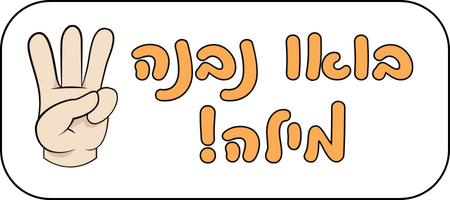
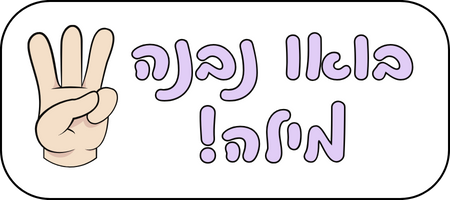
updated images + sizes for UI + names

Changed region(s): [[0.4356, 0.51, 0.7778, 0.81], [0.28, 0.18, 0.5911, 0.51], [0.6222, 0.15, 0.9333, 0.42]]

diff --git a/UI/learn_a_letter.py b/UI/learn_a_letter.py
@@ -41,27 +41,30 @@ class TopFrame(tk.Frame):
         self.create_widgets()
 
     def create_widgets(self):
-        self.name_label = tk.Label(self, image=self.what_your_name, font=("Calibri", 20), bg=self.config["BG_COLOR"])
-        self.name_label.pack(side="top", padx=10)
-
         self.empty_frame1 = tk.Label(self, width=int(self.winfo_width() / 10),
                                     bg=self.config["BG_COLOR"])
-        self.empty_frame1.pack(side='left', expand=True)
+        self.empty_frame1.pack(side='right', expand=True)
 
-        self.submit_button = tk.Button(self, image=self.config["submit_img"], bg=self.config["BG_COLOR"], borderwidth=0,
-                                       command=self.submit_name,
-                                       highlightbackground=self.config["BG_COLOR"], highlightcolor=self.config["BG_COLOR"],
-                                       highlightthickness=0, activebackground=self.config["BG_COLOR"])
-        self.submit_button.pack(side="left", padx=10)
+        self.name_label = tk.Label(self, image=self.what_your_name, font=("Calibri", 20), bg=self.config["BG_COLOR"])
+        self.name_label.pack(side="right", padx=10)
 
-
-        self.entry = tk.Entry(self, font=("Calibri", 20), justify="right", width=15)
-        self.entry.pack(side="left", padx=10)
-
+        self.empty_frame2 = tk.Label(self, width=int(self.winfo_width() / 10),
+                                    bg=self.config["BG_COLOR"])
+        self.empty_frame2.pack(side='left', expand=True)
 
         self.empty_frame3 = tk.Label(self, width=int(self.winfo_width() / 10),
                                     bg=self.config["BG_COLOR"])
         self.empty_frame3.pack(side='left', expand=True)
+
+        self.submit_button = tk.Button(self, image=self.config["submit_img"], bg=self.config["BG_COLOR"], borderwidth=0,
+                                       command=self.submit_name, highlightbackground=self.config["BG_COLOR"], highlightcolor=self.config["BG_COLOR"],
+                                       highlightthickness=0, activebackground=self.config["BG_COLOR"], cursor="hand2")
+        self.submit_button.pack(side="left", padx=10)
+
+
+        self.entry = tk.Entry(self, font=("Calibri", 20), justify="center", width=10)
+        self.entry.pack(side="left", padx=10)
+
 
 
     def submit_name(self):
@@ -92,7 +95,7 @@ class MiddleFrame(tk.Frame):
 
 class MiddleRightFrame(tk.Frame):
     def __init__(self, parent, config):
-        super().__init__(parent, bg=config["BG_COLOR"]) 
+        super().__init__(parent, bg=config["BG_COLOR"])
         self.config = config
         self.parent = parent
         self.pack(side='right')
@@ -101,7 +104,7 @@ class MiddleRightFrame(tk.Frame):
     def create_widgets(self):
         self.empty_frame1 = tk.Label(self, height=int(self.winfo_height() / 2),
                                     bg=self.config["BG_COLOR"])
-        self.empty_frame1.pack(side='top', expand=True)
+        self.empty_frame1.pack(side='bottom', expand=True)
 
         self.empty_frame2 = tk.Label(self, width=int(self.winfo_width() / 10),
                                     bg=self.config["BG_COLOR"])
@@ -128,13 +131,16 @@ class MiddleRightFrame(tk.Frame):
 # Middle Left Frame
 class MiddleLeftFrame(tk.Frame):
     def __init__(self, parent, config):
-        super().__init__(parent, bg=config["BG_COLOR"]) 
+        super().__init__(parent, bg=config["BG_COLOR"])
         self.config = config
         self.letter = None
         self.pack(side='left', expand=True, fill='both')
         self.empty = ImageTk.PhotoImage(Image.open("letters/empty.png").resize((300, 300), Image.LANCZOS))
         self.letter_label = tk.Label(self,image=self.empty, bg=self.config["BG_COLOR"])
-        self.letter_label.pack(side="right")
+        self.letter_label.pack(side="top")
+        self.learn_a_letter_boy = ImageTk.PhotoImage(Image.open("new_assets/learn_a_letter_boy.png").resize((360, 250), Image.LANCZOS))
+        self.letter_boy_label = tk.Label(self, image=self.learn_a_letter_boy, bg=self.config["BG_COLOR"])
+        self.letter_boy_label.pack(side="bottom")
 
     def display_name(self, letter):
         self.letter = letter
@@ -170,6 +176,6 @@ class BottomFrame(tk.Frame):
         self.back_button = tk.Button(self, image=self.config["back_img"], bg=self.config["BG_COLOR"], borderwidth=0,
                                      command=self.return_to_homepage,
                                      highlightbackground=self.config["BG_COLOR"], highlightcolor=self.config["BG_COLOR"],
-                                     highlightthickness=1, activebackground=self.config["BG_COLOR"])
+                                     highlightthickness=1, activebackground=self.config["BG_COLOR"], cursor="hand2")
         self.back_button.pack(side="right", padx=10)
 

diff --git a/UI/identify_page.py b/UI/identify_page.py
@@ -64,28 +64,28 @@ class MiddleRightIdentifyFrame(tk.Frame):
 
     def create_widgets(self):
         # prediction frame
-        self.prediction_frame = tk.Frame(self, bg=self.config["BG_COLOR"], padx=10, pady=5)
-        self.prediction_frame.pack(side="top", pady=0, padx=20, fill='x') 
+        self.middle_top_frame = tk.Frame(self, bg=self.config["BG_COLOR"])
+        self.middle_top_frame.pack(side="top",expand=True, fill='both') 
 
-        self.empty_frame1 = tk.Label(self.prediction_frame, width=int(self.prediction_frame.winfo_width() / 10),
+        self.empty_frame1 = tk.Label(self.middle_top_frame, width=int(self.winfo_width() / 10),
                                     bg=self.config["BG_COLOR"])
         self.empty_frame1.pack(side='left', expand=True, fill='x')
 
         # prediction label
-        self.prediction_label = tk.Label(self.prediction_frame, text="", bg=self.config["BG_COLOR"],
-                                         font=("Calibre", 80, 'bold')) 
+        self.prediction_label = tk.Label(self.middle_top_frame, text="", bg=self.config["BG_COLOR"],
+                                         font=("Guttman Yad-Brush", 80, 'bold')) 
         self.prediction_label.pack(side="left", pady=0)
 
-        self.empty_frame2 = tk.Label(self.prediction_frame, width=int(self.prediction_frame.winfo_width() / 10),
+        self.empty_frame2 = tk.Label(self.middle_top_frame, width=int(self.winfo_width() / 10),
                                     bg=self.config["BG_COLOR"])
         self.empty_frame2.pack(side='left', expand=True, fill='x')
 
         # prediction header
-        self.prediction_label_header = tk.Label(self.prediction_frame, image=self.config["meet_the_letter"],
+        self.prediction_label_header = tk.Label(self.middle_top_frame, image=self.config["meet_the_letter"],
                                                 bg=self.config["BG_COLOR"]) 
-        self.prediction_label_header.pack(side='left', pady=3, padx=15)
+        self.prediction_label_header.pack(side='left', pady=0, padx=2)
 
-        self.empty_frame3 = tk.Label(self.prediction_frame, width=int(self.prediction_frame.winfo_width() / 10),
+        self.empty_frame3 = tk.Label(self.middle_top_frame, width=int(self.winfo_width() / 10),
                                     bg=self.config["BG_COLOR"])
         self.empty_frame3.pack(side='left', expand=True, fill='x')
 
@@ -103,7 +103,7 @@ class BottomIdentifyFrame(tk.Frame):
         super().__init__(parent, bg=config["BG_COLOR"])
         self.parent = parent
         self.config = config
-        self.pack(side='top', fill='x')
+        self.pack(side='top', fill='both', expand=True)
         self.create_widgets()
 
     def back_to_homepage(self):
@@ -112,5 +112,5 @@ class BottomIdentifyFrame(tk.Frame):
 
     def create_widgets(self):
         back_button = tk.Button(self, image=self.config["back_img"], bg=self.config["BG_COLOR"],
-                                borderwidth=0, command=self.back_to_homepage, activebackground=self.config["BG_COLOR"])
+                                borderwidth=0, command=self.back_to_homepage, activebackground=self.config["BG_COLOR"], cursor="hand2")
         back_button.pack(side='right', padx=30, pady=10)

diff --git a/UI/home_page.py b/UI/home_page.py
@@ -115,13 +115,13 @@ class LeftHomeFrame(tk.Frame):
                                     bg=self.config["BG_COLOR"])
         self.empty_frame1.pack(side='top', expand=True)
         left_button = tk.Button(self, image=self.config["identify_img"], bg=self.config["BG_COLOR"],
-                                 borderwidth=0, command=self.show_identify_page,  activebackground=self.config["BG_COLOR"])
+                                 borderwidth=0, command=self.show_identify_page,  activebackground=self.config["BG_COLOR"], cursor="hand2")
         left_button.pack(side='top')
         self.empty_frame2 = tk.Label(self, image=self.config["spacer"],
                                     bg=self.config["BG_COLOR"])
         self.empty_frame2.pack(side='top', expand=True)
         left_bottom_button = tk.Button(self, image=self.config["word_identify_img"], bg=self.config["BG_COLOR"],
-                                        borderwidth=0, command=self.show_word_identify_page, activebackground=self.config["BG_COLOR"])
+                                        borderwidth=0, command=self.show_word_identify_page, activebackground=self.config["BG_COLOR"], cursor="hand2")
         left_bottom_button.pack(pady=10, side='bottom')
         
 
@@ -158,7 +158,7 @@ class RightHomeFrame(tk.Frame):
 
     def show_signaword(self):
         self.sign_a_word_config =  {
-            "BG_COLOR": "#fbac57",
+            "BG_COLOR": "#eed4ff",
             "back_img": self.back_img,
             "boy_img": self.identify_boy_img,
             "homePage_show": self.config["homePage_show"]
@@ -172,12 +172,12 @@ class RightHomeFrame(tk.Frame):
                                     bg=self.config["BG_COLOR"])
         self.empty_frame1.pack(side='top', expand=True)
         right_top_button = tk.Button(self, image=self.config["name_break_down_img"], bg=self.config["BG_COLOR"],
-                                borderwidth=0, command=self.show_namebreakdown, activebackground=self.config["BG_COLOR"])
+                                borderwidth=0, command=self.show_namebreakdown, activebackground=self.config["BG_COLOR"], cursor="hand2")
         right_top_button.pack(side="top")
         self.empty_frame2 = tk.Label(self, image=self.config["spacer"],
                                     bg=self.config["BG_COLOR"])
         self.empty_frame2.pack(side='top', expand=True)
         right_bottom_button = tk.Button(self, image=self.config["sign_a_word_img"], bg=self.config["BG_COLOR"],
-                                borderwidth=0,  command=self.show_signaword, activebackground=self.config["BG_COLOR"])
+                                borderwidth=0,  command=self.show_signaword, activebackground=self.config["BG_COLOR"], cursor="hand2")
         right_bottom_button.pack(pady=10, side='bottom')
 

diff --git a/app.py b/app.py
@@ -30,7 +30,7 @@ class App:
         self.logger.info('starting UI init...')
         self.root.title("SignMyName")
         self.root.configure(bg='black')
-        self.root.minsize(1200, 720)
+        self.root.minsize(1200, 750)
         self.root.iconbitmap("assets/icon.ico")
         self.load_images()
         self.create_home_page()
@@ -45,7 +45,7 @@ class App:
             "logo_img": ImageTk.PhotoImage(Image.open("new_assets/logo.png").resize((211, 85), Image.LANCZOS)),
             
             # universal images
-            "back_img": ImageTk.PhotoImage(Image.open("new_assets/back.png").resize((150, 50), Image.LANCZOS)),
+            "back_img": ImageTk.PhotoImage(Image.open("new_assets/back.png").resize((180, 60), Image.LANCZOS)),
             "spacer" : ImageTk.PhotoImage(Image.open("new_assets/spacer.png").resize((70, 70), Image.LANCZOS)),
             
             # home page images
@@ -55,14 +55,14 @@ class App:
             "identify_img": ImageTk.PhotoImage(Image.open("new_assets/IdentifyPage.png").resize((250, 111), Image.LANCZOS)),
             "sign_a_word_img": ImageTk.PhotoImage(Image.open("new_assets/SignAWord.png").resize((250, 111), Image.LANCZOS)),
 
-            # name breakdown images
+            # learn a letter images
             "submit_img": ImageTk.PhotoImage(Image.open("new_assets/submit.png").resize((67, 67), Image.LANCZOS)),
             "next_img": ImageTk.PhotoImage(Image.open("assets/next.png").resize((154, 68), Image.LANCZOS)),
             "what_your_name_img": ImageTk.PhotoImage(Image.open("new_assets/WhatsYourName.png").resize((300, 75), Image.LANCZOS)),
             
             # identify page images
             "identify_boy": ImageTk.PhotoImage(Image.open("new_assets/identify_boy.png").resize((400, 500), Image.LANCZOS)),
-            "meet_the_letter": ImageTk.PhotoImage(Image.open("new_assets/meet_the_letter.png").resize((250, 62), Image.LANCZOS))
+            "meet_the_letter": ImageTk.PhotoImage(Image.open("new_assets/meet_the_letter.png").resize((312, 75), Image.LANCZOS))
         }
 
     def create_home_page(self):

diff --git a/UI/sign_a_word_page.py b/UI/sign_a_word_page.py
@@ -61,13 +61,7 @@ class SignAWordTopFrame(tk.Frame):
         self.create_widgets()
 
     def create_widgets(self):
-        build_a_word_header = tk.Label(self, text="!בנה מילה", font=("Calibri", 20), bg=self.config["BG_COLOR"], fg="black")
-        build_a_word_header.pack(side="top")
-
-        build_a_word_back_button = tk.Button(self, image=self.config["back_img"], bg=self.config["BG_COLOR"], borderwidth=0,
-                                             highlightbackground=self.config["BG_COLOR"], highlightcolor=self.config["BG_COLOR"], highlightthickness=0,
-                                             command=self.parent.close_frame, activebackground=self.config["BG_COLOR"])
-        build_a_word_back_button.pack(side='right', padx=15)
+        pass
 
 class SignAWordMiddleFrame(tk.Frame):
     def __init__(self, parent, config):
@@ -163,8 +157,15 @@ class SignAWordBottomFrame(tk.Frame):
     def __init__(self, parent, config):
         super().__init__(parent, bg=config["BG_COLOR"])
         self.config = config
+        self.parent = parent
         self.pack(side='bottom', fill='x')
         self.create_widgets()
 
     def create_widgets(self):
-        pass
+        build_a_word_header = tk.Label(self, text="!בנה מילה", font=("Calibri", 20), bg=self.config["BG_COLOR"], fg="black")
+        build_a_word_header.pack(side="top")
+
+        build_a_word_back_button = tk.Button(self, image=self.config["back_img"], bg=self.config["BG_COLOR"], borderwidth=0,
+                                             highlightbackground=self.config["BG_COLOR"], highlightcolor=self.config["BG_COLOR"], highlightthickness=0,
+                                             command=self.parent.close_frame, activebackground=self.config["BG_COLOR"], cursor="hand2")
+        build_a_word_back_button.pack(side='right', padx=15)

diff --git a/UI/wrd_identify_page.py b/UI/wrd_identify_page.py
@@ -42,7 +42,7 @@ class TopWordIdentifyFrame(tk.Frame):
         back_button = tk.Button(self, image=self.config["back_img"], bg=self.config["BG_COLOR"], borderwidth=0,
                                 command=self.back_to_homepage,
                                 highlightbackground=self.config["BG_COLOR"], highlightcolor=self.config["BG_COLOR"],
-                                highlightthickness=0, activebackground=self.config["BG_COLOR"])
+                                highlightthickness=0, activebackground=self.config["BG_COLOR"], cursor="hand2")
         back_button.pack(side='right', padx=30, pady=10)
 
 
